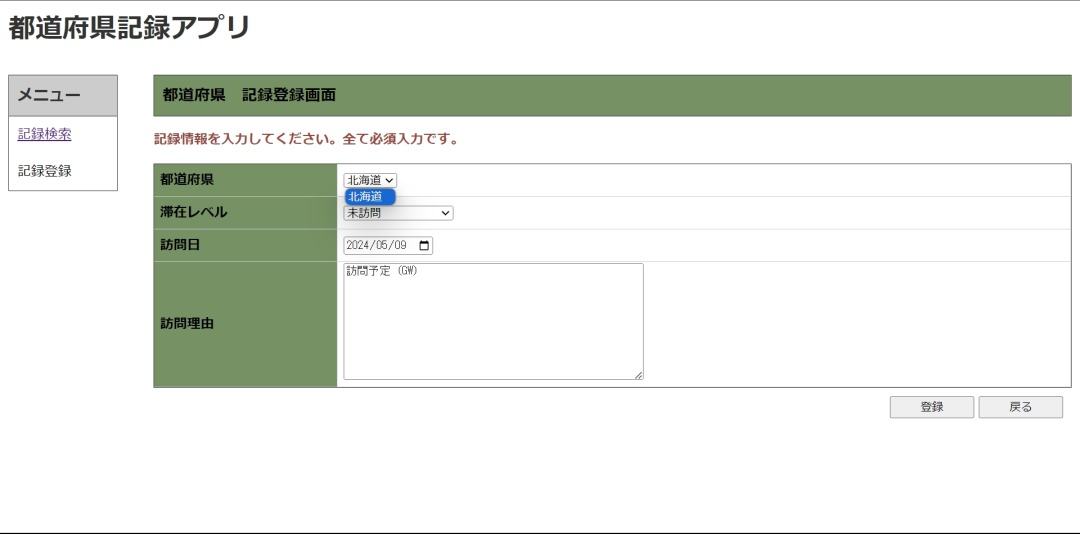
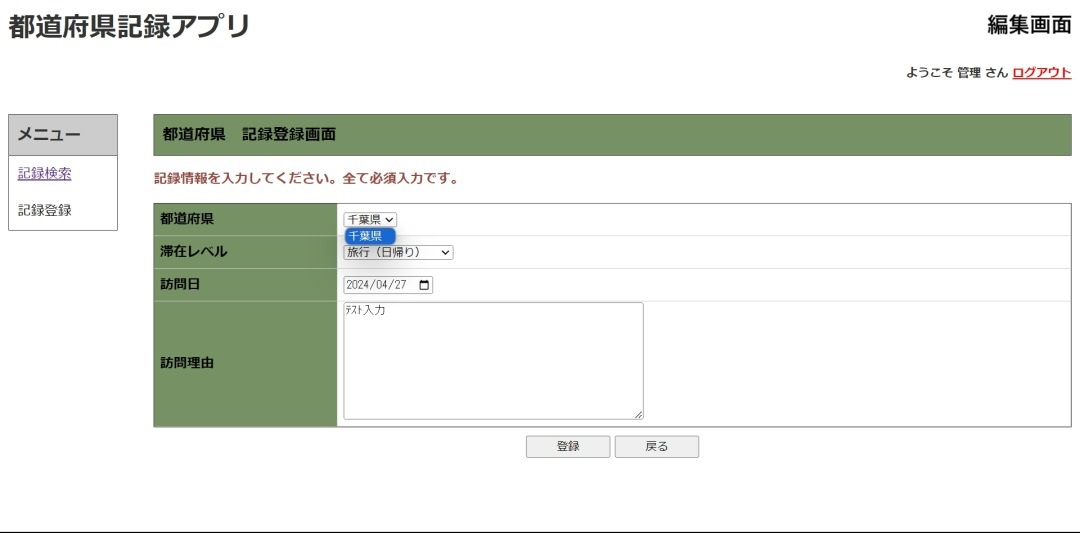
docs,style: prefectures_app更新に伴う改修(ドキュメント、スタイル)

diff --git a/portfolio.html b/portfolio.html
@@ -151,10 +151,10 @@
     <button class="portfolio__pop--close-btn"></button>
     <h2 class="portfolio__popup--title">prefectures_app</h2>
     <p class="portfolio__popup--text">
-      <span>都道府県訪問記録アプリの作成に挑戦しております。~2024年4月</span>
-      <span>現在は、ログイン・ログアウト機能を実装中です。</span>
-      <span>Udemyの教材で「社員情報検索・登録アプリ」を作成し、そのソースを改めるかたちで作成を行っています。</span>
-      <span>検索機能、削除機能、登録機能、更新機能を実装しております。</span>
+      <span>都道府県訪問記録アプリを作成いたしました。</span>
+      <span>Udemyの教材で「社員情報検索・登録アプリ」を作成し、そのソースを改めるかたちで作成を行いました。</span>
+      <span>ログイン・ログアウト機能、検索機能、削除機能、登録機能、更新(編集)機能を実装しております。</span>
+      <span>デプロイはしておらず、画面ごとに画像を確認できるようにいたしました。imageでご確認ください。</span>
     </p>
     <h2 class="portfolio__popup--title">使用言語など</h2>
     <p class="portfolio__popup--text">
@@ -171,23 +171,27 @@
     <div class="portfolio__slide--prefectures-content">
       <!-- slide -->
       <ul class="slide-items__wrap">
-        <li><img src="./img/prefectures_app/home.jpg" class="slide-items__item"></li>
-        <li><img src="./img/prefectures_app/search_delete.jpg" class="slide-items__item"></li>
+        <li><img src="./img/prefectures_app/login.jpg" class="slide-items__item"></li>
+        <li><img src="./img/prefectures_app/login_validation.jpg" class="slide-items__item"></li>
+        <li><img src="./img/prefectures_app/search.jpg" class="slide-items__item"></li>
+        <li><img src="./img/prefectures_app/search_validation.jpg" class="slide-items__item"></li>
+        <li><img src="./img/prefectures_app/delete.jpg" class="slide-items__item"></li>
         <li><img src="./img/prefectures_app/edit.jpg" class="slide-items__item"></li>
         <li><img src="./img/prefectures_app/record.jpg" class="slide-items__item"></li>
-        <li><img src="./img/prefectures_app/record_validation.jpg" class="slide-items__item"></li>
+        <li><img src="./img/prefectures_app/record・edit_success.jpg" class="slide-items__item"></li>
+        <li><img src="./img/prefectures_app/record・edit_validation.jpg" class="slide-items__item"></li>
       </ul>
     </div>
   </div>
 
-  <!-- script -->
-  <script src="https://cdn.jsdelivr.net/npm/bootstrap@5.3.0-alpha3/dist/js/bootstrap.bundle.min.js" 
-  integrity="sha384-ENjdO4Dr2bkBIFxQpeoTz1HIcje39Wm4jDKdf19U8gI4ddQ3GYNS7NTKfAdVQSZe" crossorigin="anonymous"></script>
-  <script src="https://code.jquery.com/jquery-3.7.0.min.js" 
-  integrity="sha256-2Pmvv0kuTBOenSvLm6bvfBSSHrUJ+3A7x6P5Ebd07/g=" crossorigin="anonymous"></script>
-  <!-- slide -->
-  <script type="text/javascript" src="//cdn.jsdelivr.net/npm/slick-carousel@1.8.1/slick/slick.min.js"></script>
-  <script src="js/main.js"></script>
+    <!-- script -->
+    <script src="https://cdn.jsdelivr.net/npm/bootstrap@5.3.0-alpha3/dist/js/bootstrap.bundle.min.js" 
+    integrity="sha384-ENjdO4Dr2bkBIFxQpeoTz1HIcje39Wm4jDKdf19U8gI4ddQ3GYNS7NTKfAdVQSZe" crossorigin="anonymous"></script>
+    <script src="https://code.jquery.com/jquery-3.7.0.min.js" 
+    integrity="sha256-2Pmvv0kuTBOenSvLm6bvfBSSHrUJ+3A7x6P5Ebd07/g=" crossorigin="anonymous"></script>
+    <!-- slide -->
+    <script type="text/javascript" src="//cdn.jsdelivr.net/npm/slick-carousel@1.8.1/slick/slick.min.js"></script>
+    <script src="js/main.js"></script>
 
 </body>
 </html>

diff --git a/css/style.css b/css/style.css
@@ -207,8 +207,8 @@ span {
 }
 
 .portfolio__col--img {
-    height: 55vh;
-    width: 40vw;
+    height: 47vh;
+    width: 45vw;
     border: 5px solid rgb(107, 141, 107);
     display: inline-block;
 }
@@ -327,8 +327,8 @@ span {
     top: 50%;
     left: 50%;
     transform: translate(-50%, -50%);
-    height: 80%;
-    width: 70%;
+    height: 75%;
+    width: 90%;
     background-color: rgb(255, 255, 255);
     padding: 20px;
     text-align: center;
@@ -341,8 +341,8 @@ span {
 }
 
 .slide-items__item {
-    height: 70vh;   
-    width: 90%; 
+    height: 65vh;   
+    width: 85%; 
     margin: auto;
 }
 
@@ -493,13 +493,13 @@ span {
 
     /* slide */
     .slide-items__item {
-        height: 50vh;   
+        height: 40vh;   
         width: 90%; 
     }
 
     .portfolio__slide--prefectures-content {
-        height: 60%;
-        width: 70%;
+        height: 50%;
+        width: 90%;
     }
 
     /* contact */
@@ -568,12 +568,12 @@ span {
 
     /* slide */
     .slide-items__item {
-        height: 40vh;   
+        height: 35vh;   
         width: 90%; 
     }
     .portfolio__slide--prefectures-content {
-        height: 50%;
-        width: 85%;
+        height: 45%;
+        width: 90%;
     }
 }
 

diff --git a/index.html b/index.html
@@ -71,8 +71,8 @@
         <h1 class="home__col--name">丸山 直城</h1>
         <p class="home__col--text">
           <span>山梨県出身。スクールでプログラミングを学習後、2023年に開発系のエンジニアとして駆け出し始めた男です。</span>
-          <span>こちらのサイトはJavaScriptを使用した成果物を主に紹介しております。</span>
-          <span>技術はまだまだ拙く、日々勉強中です。2024年PHPアプリ作成に挑戦中！</span>
+          <span>こちらのサイトは主に、JavaScriptを使用した成果物を紹介しております。</span>
+          <span>技術はまだまだ拙く、日々勉強中です。現在はOracle Databaseの資格に挑戦中！</span>
         </p>
       </div>
       <div class="col-lg-12 col-md-12 col-sm-12 col-xs-12 common__col--sns fadeUp">

diff --git a/js/main.js b/js/main.js
@@ -7,7 +7,7 @@
       $('.header-list__wrap-popup').slideToggle();
   });
 
-  // popup title&text SET 
+  // popup
   $('.portfolio__col--yamamaru-img').click(function() {
     $('.portfolio__popup--overlay, .portfolio__popup--yamamaru-content').fadeIn();
     $('.header').fadeOut();
